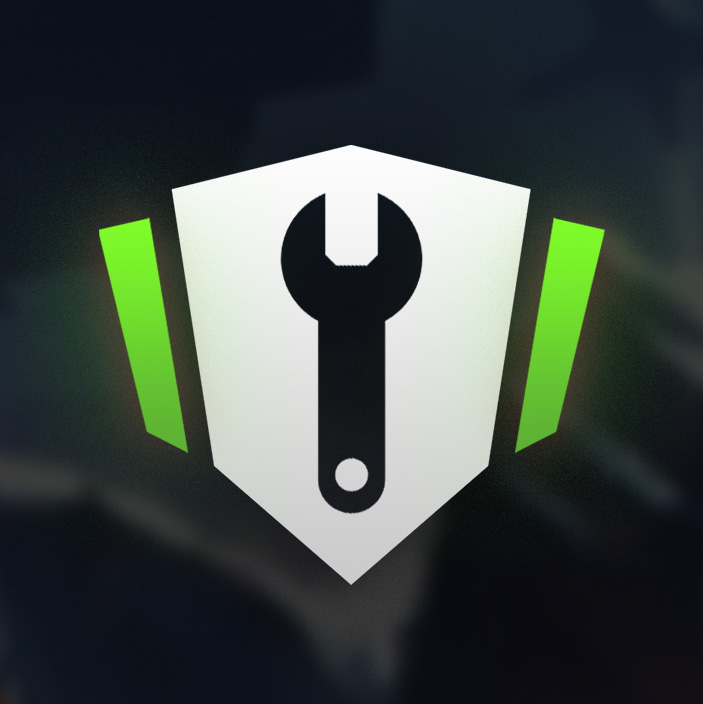
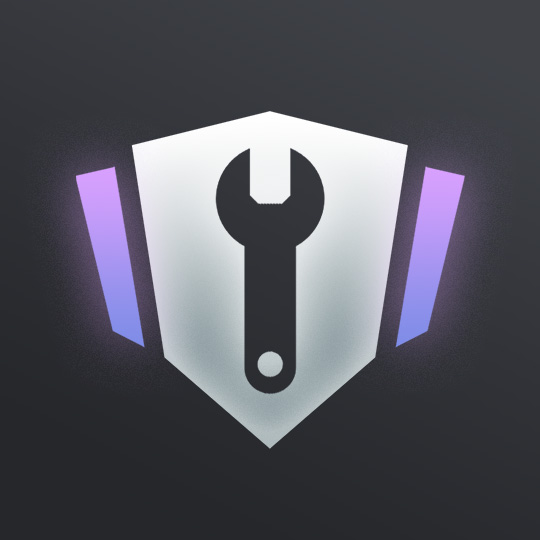
Obsidian Trainer 1.9.1: the new image

diff --git a/CHANGELOG.md b/CHANGELOG.md
@@ -2,6 +2,10 @@
 
 New, changed or removed options, one line each, brief and direct. A release's section becomes its release notes.
 
+## 1.9.1
+
+- Changed: a new image beside the mod in Obsidian's mod list.
+
 ## 1.9.0
 
 - New: Enter a stratagem on each bot's page: the bot holds the stratagem key, enters the code of a stratagem it carries and throws the flare at the cursor. Stop entering ends it.
